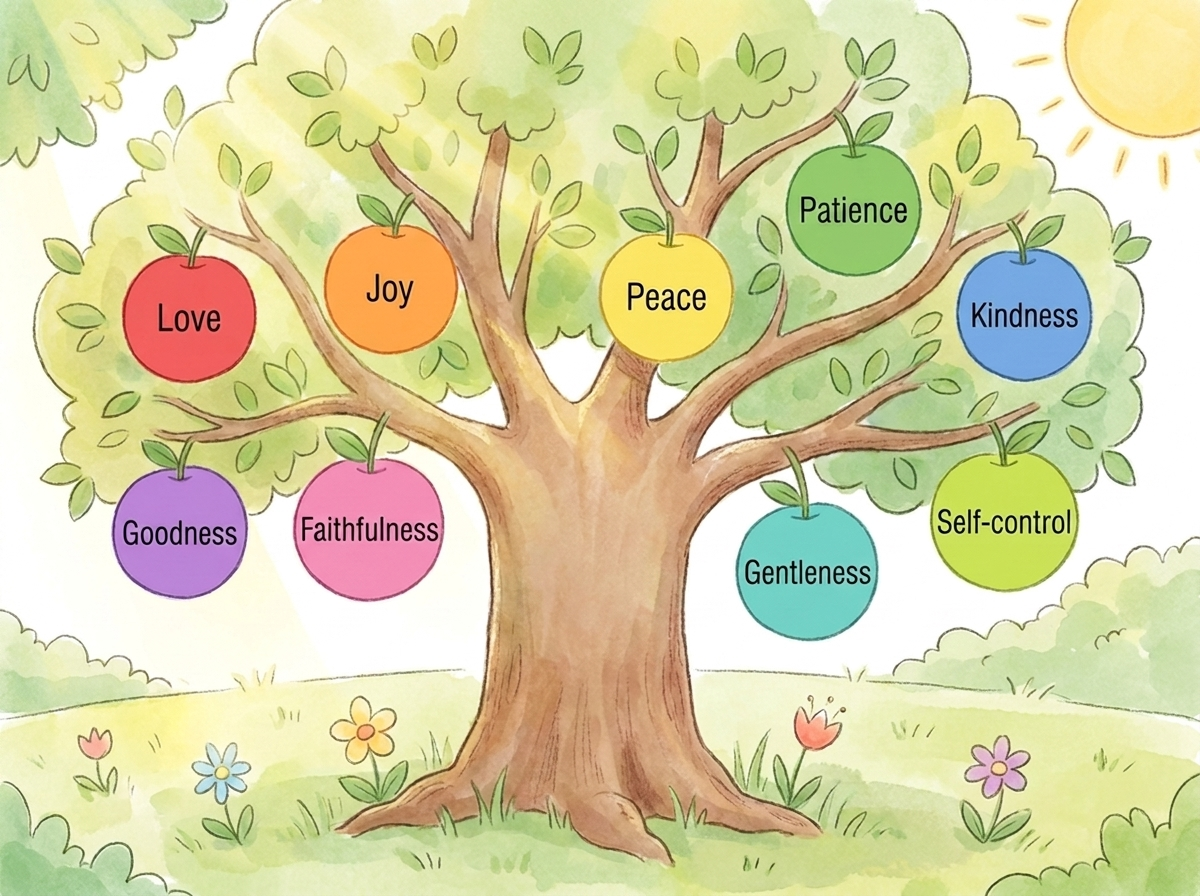
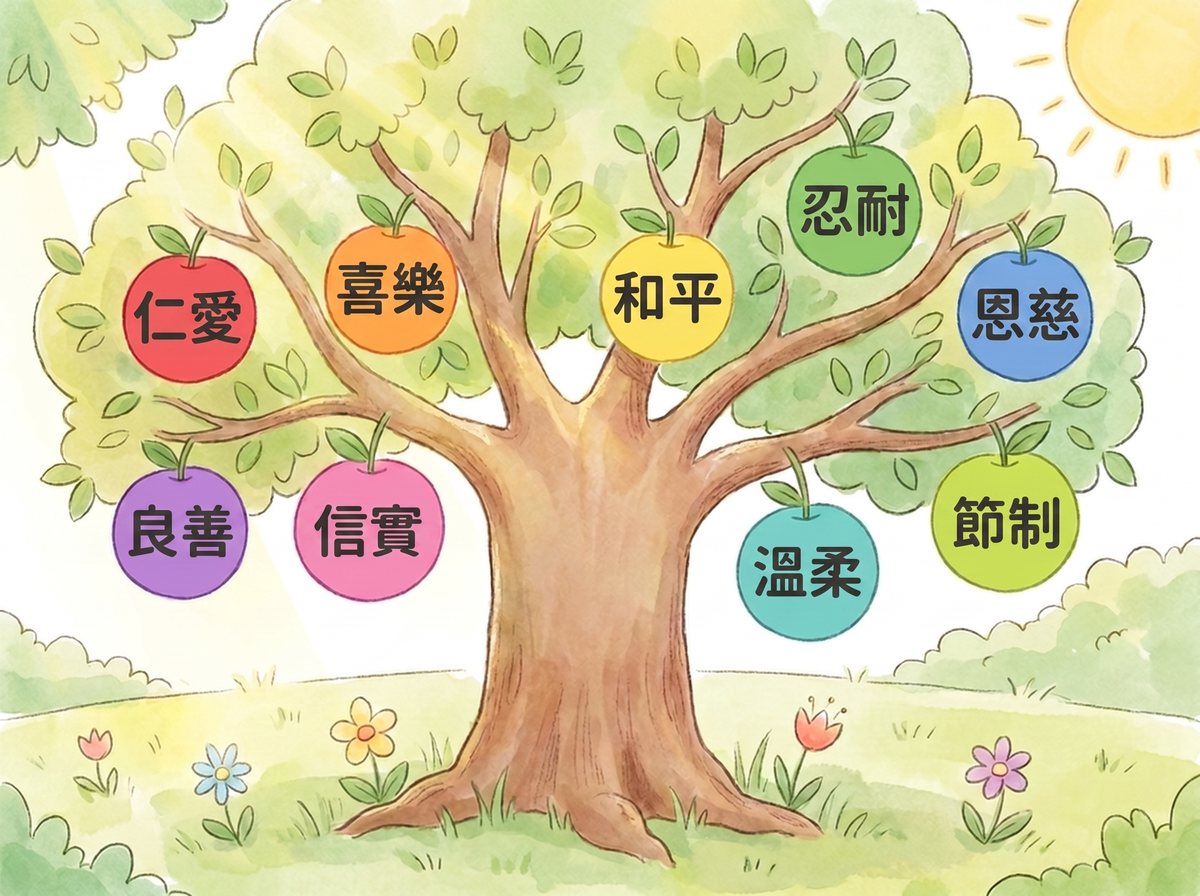
聖靈第5題：聖靈果子樹改中文（仁愛/喜樂/和平/忍耐/恩慈/良善/信實/溫柔/節制），圖片快取破除改 v3

diff --git a/index.html b/index.html
@@ -517,7 +517,7 @@ function openItem(i,btn){
     html+='<div class="qleft">'+diff+
       '<div class="lead">👀 請注意看圖片，答案就在圖片中！</div>'+
       '<div class="toggleBox show hidebox"><button class="btn beige" onclick="tog(this)">關主：隱藏／顯示圖片</button>'+
-      '<div class="togContent"><img class="qimg" src="images/'+it.img+'?v=2" alt="題目圖片"></div></div>'+
+      '<div class="togContent"><img class="qimg" src="images/'+it.img+'?v=3" alt="題目圖片"></div></div>'+
       '<p class="audionote">先讓大家看圖片找答案；按「公布題目」時會自動把圖片收起來。</p>'+
       '</div><div class="qright">'+
         '<div class="toggleBox"><button class="btn accent" onclick="publish(this)">📣 公布題目</button>'+